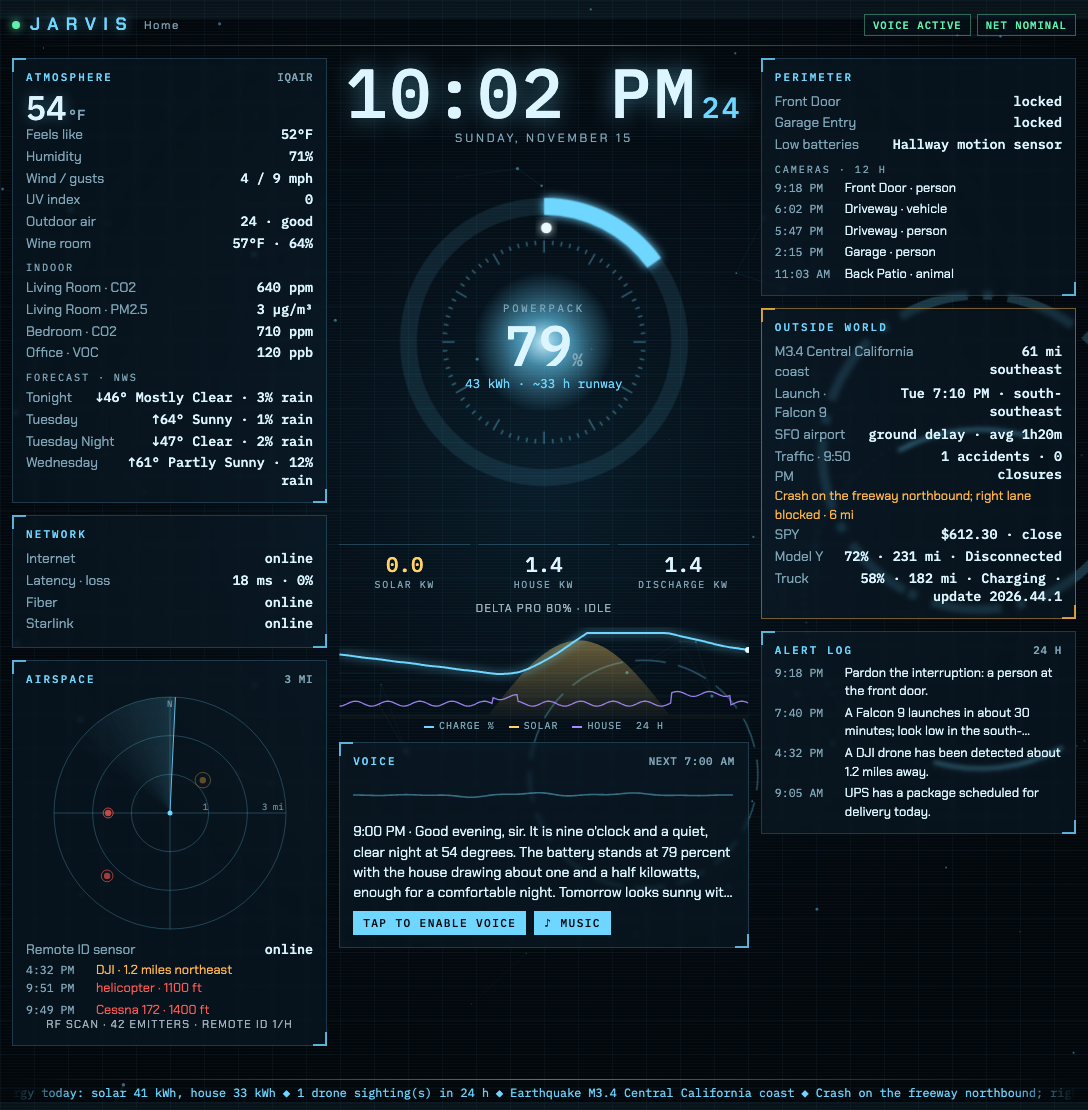
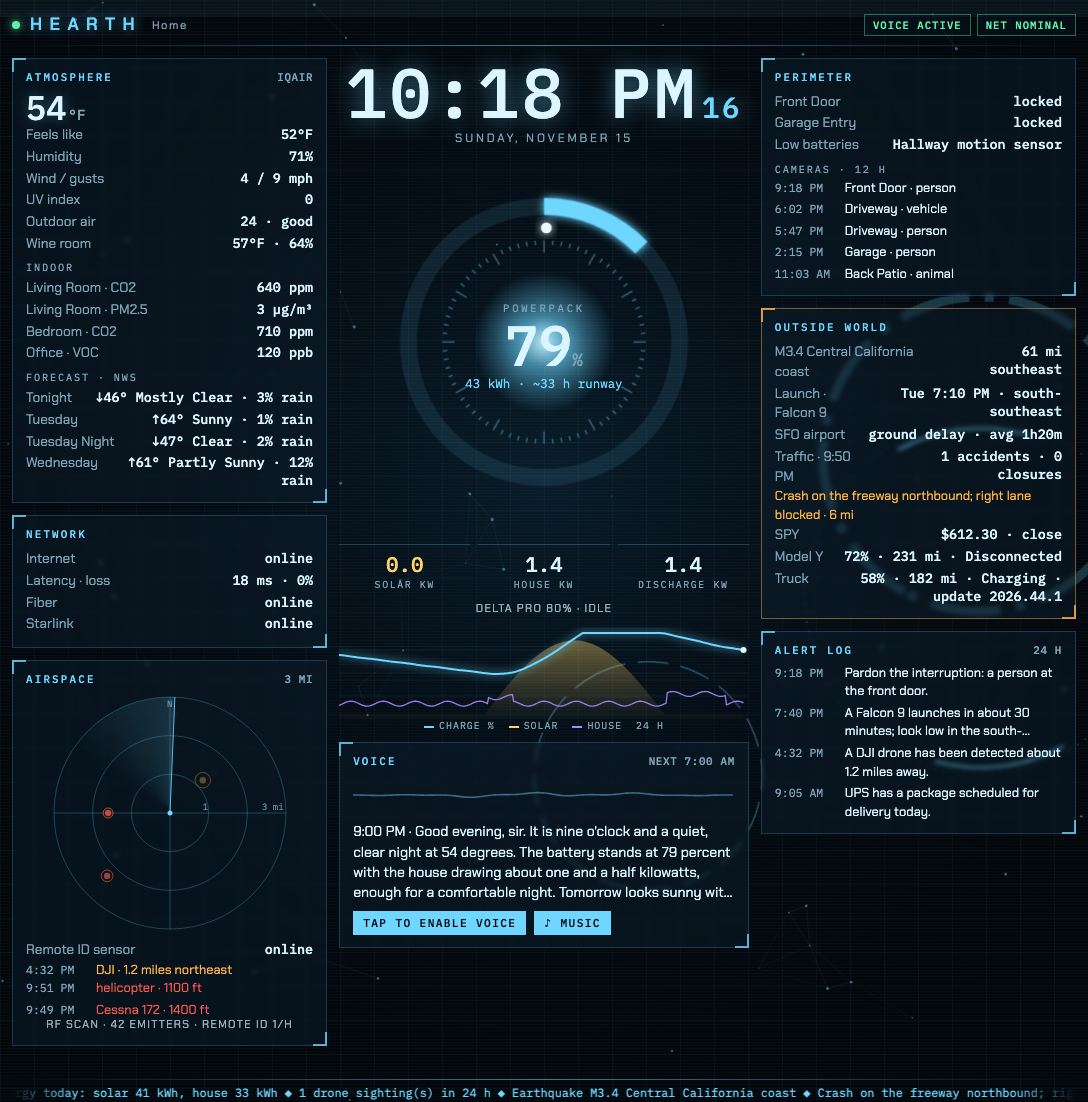
Configurable assistant name (assistant_name, default "Hearth")
assistant_name drives the spoken persona ("You are {name}, ..."), a
{assistant_name} prompt placeholder, the HUD wordmark and page title
(from the status; the page shows a neutral HEARTH until data arrives),
the HomeKit/Siri switch default, the email subject and body, the
household-journal page and the AirPlay pairing name. The public example,
README and screenshot use the neutral default; an existing config just
sets `assistant_name: Jarvis` and keeps its Siri switch names. The
project and its commands are still Jarvis at home / `jarvis`.

diff --git a/dashboard.html b/dashboard.html
@@ -1,10 +1,10 @@
 <!doctype html>
 <html lang="en"><meta charset="utf-8"><meta name="viewport" content="width=device-width,initial-scale=1">
-<title>Jarvis · Home journal</title>
+<title>__NAME__ · Home journal</title>
 <style>
 :root{color-scheme:dark;font:15px system-ui,sans-serif;background:#101817;color:#e5ede8}*{box-sizing:border-box}body{max-width:1250px;margin:auto;padding:30px}header{display:flex;justify-content:space-between;align-items:center;gap:20px;margin-bottom:32px}h1{font-family:Georgia,serif;font-size:42px;font-weight:normal;margin:0}h2{font-size:20px;font-weight:500;margin:0 0 18px}h3{font-size:16px;margin:0 0 8px}.eyebrow{font-size:11px;letter-spacing:2px;color:#a9bda9;margin-bottom:10px}p{line-height:1.6;margin:8px 0}.muted{color:#a7b8b0;font-size:13px}.grid{display:grid;grid-template-columns:1.25fr 1fr;gap:18px}.card{border:1px solid #34443d;background:#19231f;border-radius:12px;padding:24px;margin-bottom:18px}.full{grid-column:1/-1}button,select,input{font:inherit;background:#28372f;color:inherit;border:1px solid #526354;border-radius:6px;padding:8px 12px}button{cursor:pointer}button:hover{background:#3d5142}button:disabled{opacity:.5;cursor:default}.row{display:flex;align-items:center;justify-content:space-between;gap:12px;border-top:1px solid #34443d;padding:12px 0}.row:first-child{border:0}.badge{font-size:12px;white-space:nowrap;border-radius:20px;padding:4px 10px;background:#314735}.bad{background:#663c2c}.warn{background:#544b2d}.actions{display:flex;gap:8px;flex-wrap:wrap}.history{display:grid;gap:12px}.entry{border-top:1px solid #34443d;padding-top:14px}.entry p{white-space:pre-wrap}.entry details{margin:8px 0}.metric{font:32px Georgia,serif;color:#d6dcb0}#notice{min-height:22px;color:#d6dcb0}svg{width:100%;height:175px;margin-top:12px}table{border-collapse:collapse;width:100%;font-size:13px}td,th{text-align:left;padding:8px;border-bottom:1px solid #34443d}#health{max-height:370px;overflow:auto}.toolbar{display:flex;gap:12px;align-items:center;flex-wrap:wrap}input{min-width:180px;flex:1}footer{padding:16px 0;color:#a7b8b0;font-size:12px}@media(max-width:750px){body{padding:18px}.grid{display:block}header{align-items:flex-start;flex-direction:column}h1{font-size:36px}.card{padding:18px}}
 </style>
-<header><div><div class="eyebrow">JARVIS / HOUSEHOLD JOURNAL</div><h1>A clearer view of home.</h1><p class="muted" id="updated">Connecting to the local journal…</p></div><div class="actions"><span id="daemon" class="badge">Waiting</span><button id="quiet">Quiet mode</button></div></header>
+<header><div><div class="eyebrow">__NAME_UPPER__ / HOUSEHOLD JOURNAL</div><h1>A clearer view of home.</h1><p class="muted" id="updated">Connecting to the local journal…</p></div><div class="actions"><span id="daemon" class="badge">Waiting</span><button id="quiet">Quiet mode</button></div></header>
 <div id="notice" role="status" aria-live="polite"></div>
 <main class="grid">
 <section class="card"><h2>Energy outlook</h2><div id="energy"></div><div id="chart"></div></section>

diff --git a/hud/index.html b/hud/index.html
@@ -5,7 +5,7 @@
 <meta name="viewport" content="width=device-width, initial-scale=1, viewport-fit=cover">
 <meta name="robots" content="noindex, nofollow">
 <meta name="referrer" content="no-referrer">
-<title>Jarvis Display</title>
+<title>Hearth Display</title>
 <link rel="preconnect" href="https://fonts.googleapis.com">
 <link rel="preconnect" href="https://fonts.gstatic.com" crossorigin>
 <link rel="stylesheet" href="https://fonts.googleapis.com/css2?family=Chakra+Petch:wght@400;500;600&family=IBM+Plex+Mono:wght@400;500&display=swap">
@@ -184,7 +184,7 @@ footer.foot::before { content: ""; position: absolute; left: 0; right: 0; top: 0
 
 <div id="app" class="hud">
   <header class="bar">
-    <div class="brand"><span class="dot" id="dot"></span>JARVIS<small id="where"></small></div>
+    <div class="brand"><span class="dot" id="dot"></span><span class="brand-name">HEARTH</span><small id="where"></small></div>
     <div class="chips" id="chips"></div>
   </header>
 
@@ -254,7 +254,7 @@ footer.foot::before { content: ""; position: absolute; left: 0; right: 0; top: 0
 </div>
 
 <div id="gate" class="gate" hidden>
-  <div class="brand"><span class="dot"></span>JARVIS</div>
+  <div class="brand"><span class="dot"></span><span class="brand-name">HEARTH</span></div>
   <div id="gate-msg">Connecting…</div>
 </div>
 
@@ -526,7 +526,7 @@ footer.foot::before { content: ""; position: absolute; left: 0; right: 0; top: 0
   }
 
   // ---------- render ----------
-  var last = null, booted = false;
+  var last = null, booted = false, shownName = null;
   function fresh() {
     if (!last) return;
     var age = Math.round((Date.now() - new Date(last.generated).getTime()) / 60000);
@@ -546,6 +546,11 @@ footer.foot::before { content: ""; position: absolute; left: 0; right: 0; top: 0
 
     // voice
     speaking = !!v.speaking || (!player.paused && !player.ended && player.currentTime > 0);
+    if (s.assistant && s.assistant !== shownName) {            // wordmark and title follow assistant_name
+      shownName = s.assistant;
+      document.querySelectorAll(".brand-name").forEach(function (e) { e.textContent = shownName.toUpperCase(); });
+      document.title = shownName + " Display";
+    }
     musicUpdate(s.music); musicSync();
     $("v-next").textContent = speaking ? "speaking" : (v.next ? "next " + v.next.at : "");
     var lb = v.last_briefing;

diff --git a/jarvis.py b/jarvis.py
@@ -58,7 +58,7 @@ DAY_NAMES = ["mon", "tue", "wed", "thu", "fri", "sat", "sun"]
 log = logging.getLogger("jarvis")
 
 SPEECH_SYSTEM_PROMPT = """\
-You are Jarvis, the household's resident AI: a composed, impeccably polite \
+You are {assistant}, the household's resident AI: a composed, impeccably polite \
 British butler of an assistant. Your manner is calm, precise and quietly \
 confident, with a dry, understated wit used sparingly. You are never gushing, \
 never chatty, and never use exclamation marks. You may occasionally address the \
@@ -103,6 +103,9 @@ def load_config(path: Path) -> dict:
     cfg.setdefault("broadcasts", [])
     cfg.setdefault('memory', {})
     cfg.setdefault('energy_planning', {})
+    # the assistant's spoken name (persona, prompts' {assistant_name}, HUD wordmark, Siri switch default)
+    cfg['assistant_name'] = str(cfg.get('assistant_name') or 'Hearth').strip()
+    cfg['llm']['_assistant_name'] = cfg['assistant_name']
     validate_rules(cfg.get('conditions') or [])
     planning = cfg['energy_planning']
     for key, default, low, high in (('history_days', 21, 1, 90), ('min_days', 3, 1, 30),
@@ -1322,6 +1325,7 @@ def render_prompt(template: str, now: dt.datetime, cfg: dict, facts=None) -> str
         "weekday": now.strftime("%A"),
         "part_of_day": part_of_day(now),
         "location": cfg.get("location", ""),
+        "assistant_name": cfg.get("assistant_name", "Hearth"),
         "name_instruction": name_instruction(cfg),
         "flourish_instruction": flourish_instruction(cfg),
         "segment_instructions": segment_instructions(now, cfg),
@@ -1367,12 +1371,13 @@ BRIEFING_SCHEMA = {'type': 'object', 'additionalProperties': False,
 
 
 def speech_instructions(llm):
+    base = SPEECH_SYSTEM_PROMPT.replace('{assistant}', llm.get('_assistant_name') or 'Hearth')
     if llm.get('_structured'):
-        return SPEECH_SYSTEM_PROMPT + ('\nFor this request, wrap your answer in a JSON object with exactly '
+        return base + ('\nFor this request, wrap your answer in a JSON object with exactly '
                'speech (the spoken prose following all style rules above) and mentioned_fact_ids '
                '(an array of supplied fact IDs actually mentioned). The prose-only rule applies to speech, '
                'not the JSON envelope. Never put JSON, fact IDs or metadata inside speech.')
-    return SPEECH_SYSTEM_PROMPT
+    return base
 
 
 def ask_anthropic(prompt: str, llm: dict) -> str:
@@ -1775,7 +1780,8 @@ async def run_broadcast(b: dict, cfg: dict, when: dt.datetime, play_audio: bool 
         ecfg = cfg.get("email_reports") or {}
         if ecfg.get("enabled") and b["name"] in ecfg.get("broadcasts", [b["name"]]):
             try:
-                await asyncio.to_thread(email_report, ecfg, b["name"], when, text, audio, Path(tmp))
+                await asyncio.to_thread(email_report, dict(ecfg, _assistant=cfg.get("assistant_name")),
+                                        b["name"], when, text, audio, Path(tmp))
             except Exception as e:  # never let email trouble affect briefings
                 log.warning("[%s] email failed: %s", b["name"], e)
 
@@ -1799,10 +1805,12 @@ def email_report(ecfg: dict, name: str, when: dt.datetime, text: str, wav: Path,
                         "-ac", "1", str(attach)], check=True)
     stamp = when.strftime("%Y-%m-%d %H:%M")
     msg = EmailMessage()
-    msg["Subject"] = ecfg.get("subject", "Jarvis {name} briefing, {stamp}").format(name=name, stamp=stamp)
+    assistant = ecfg.get("_assistant") or "Hearth"
+    msg["Subject"] = ecfg.get("subject", "{assistant} {name} briefing, {stamp}").format(
+        name=name, stamp=stamp, assistant=assistant)
     msg["From"] = os.environ.get("SMTP_FROM") or os.environ.get("SMTP_USERNAME", "")
     msg["To"] = ", ".join(ecfg["to"])
-    msg.set_content("Jarvis %s briefing, %s\n\n%s\n" % (name, stamp, text))
+    msg.set_content("%s %s briefing, %s\n\n%s\n" % (assistant, name, stamp, text))
     subtype = "mp4" if fmt == "m4a" else "wav"
     msg.add_attachment(attach.read_bytes(), maintype="audio", subtype=subtype,
                        filename="jarvis-%s-%s.%s" % (name, when.strftime("%Y%m%d-%H%M"), attach.suffix[1:]))
@@ -2033,7 +2041,7 @@ def read_alerts(since: dt.datetime) -> List[dict]:
 
 
 class QuietMode:
-    """'Hey Siri, turn on Jarvis Quiet': skip scheduled updates and non-urgent
+    """'Hey Siri, turn on <assistant> Quiet': skip scheduled updates and non-urgent
     alerts until switched off or until the configured morning time."""
 
     def __init__(self, cfg: dict):
@@ -2609,8 +2617,8 @@ def weekly_summary(now: dt.datetime) -> str:
 
 async def start_homekit(cfg: dict) -> None:
     """Expose Jarvis to Apple Home as one accessory with several switches:
-    momentary briefing switches ("Hey Siri, turn on Jarvis Update") that run a
-    briefing immediately and switch themselves off, and a "Jarvis Quiet"
+    momentary briefing switches ("Hey Siri, turn on <assistant> Update") that run a
+    briefing immediately and switch themselves off, and a "<assistant> Quiet"
     switch that holds quiet mode."""
     from pyhap.accessory import Accessory
     from pyhap.accessory_driver import AccessoryDriver
@@ -2618,7 +2626,7 @@ async def start_homekit(cfg: dict) -> None:
 
     hcfg = cfg.get("homekit") or {}
     loop = asyncio.get_running_loop()
-    switches = hcfg.get("switches") or [{"name": hcfg.get("name", "Jarvis Update"),
+    switches = hcfg.get("switches") or [{"name": hcfg.get("name", cfg.get("assistant_name", "Hearth") + " Update"),
                                          "broadcast": hcfg.get("broadcast") or cfg["broadcasts"][0]["name"]}]
     state_dir = Path(os.path.expanduser("~/Library/Application Support/jarvis"))
     state_dir.mkdir(parents=True, exist_ok=True)
@@ -3026,7 +3034,7 @@ def main() -> int:
     elif args.cmd == "cameras":
         return cameras_cmd(cfg, args.watch)
     elif args.cmd == "pair":
-        return asyncio.run(pair_device(args.device, args.pin_file))
+        return asyncio.run(pair_device(args.device, args.pin_file, cfg.get("assistant_name", "Hearth")))
     elif args.cmd == "say":
         homepods = args.homepod or cfg.get("homepods") or []
         with tempfile.TemporaryDirectory(prefix="jarvis-") as tmp:
@@ -3038,7 +3046,7 @@ def main() -> int:
 
 def operations_cmd(args, cfg):
     if args.cmd == 'dashboard':
-        server = operations.dashboard_server(JOURNAL, args.port)
+        server = operations.dashboard_server(JOURNAL, args.port, cfg.get("assistant_name", "Hearth"))
         print('Jarvis dashboard: http://127.0.0.1:%d' % server.server_port, flush=True)
         try:
             server.serve_forever()
@@ -3132,7 +3140,7 @@ def cameras_cmd(cfg: dict, watch: bool) -> int:
         return 0
 
 
-async def pair_device(name: str, pin_file: Optional[str]) -> int:
+async def pair_device(name: str, pin_file: Optional[str], client_name: str = "Hearth") -> int:
     """AirPlay pairing: the device shows a 4-digit PIN; enter it (or write it to
     --pin-file). Credentials are saved for playback; pairing is needed once."""
     import pyatv
@@ -3151,8 +3159,8 @@ async def pair_device(name: str, pin_file: Optional[str]) -> int:
     from pyatv.protocols.airplay.auth import hap as airplay_hap
 
     saved_headers = dict(airplay_hap._AIRPLAY_HEADERS)
-    airplay_hap._AIRPLAY_HEADERS["X-Apple-Client-Name"] = "Jarvis"
-    pairing = await pyatv.pair(conf, Protocol.AirPlay, loop, name="Jarvis")
+    airplay_hap._AIRPLAY_HEADERS["X-Apple-Client-Name"] = client_name
+    pairing = await pyatv.pair(conf, Protocol.AirPlay, loop, name=client_name)
     try:
         await pairing.begin()
         print("A PIN is now shown on %s." % name, flush=True)

diff --git a/tests/test_assistant_name.py b/tests/test_assistant_name.py
@@ -1,0 +1,59 @@
+import datetime as dt
+import tempfile
+import threading
+import unittest
+from pathlib import Path
+from urllib.request import urlopen
+
+import hud
+import jarvis
+import operations
+from journal import Journal
+
+ROOT = Path(__file__).resolve().parent.parent
+
+
+class AssistantName(unittest.TestCase):
+    def cfg(self, name=None):
+        with tempfile.NamedTemporaryFile("w", suffix=".yaml", delete=False) as f:
+            text = (ROOT / "config.example.yaml").read_text()
+            if name:
+                text = text.replace("assistant_name: Hearth", "assistant_name: %s" % name, 1)
+            f.write(text)
+        return jarvis.load_config(Path(f.name))
+
+    def test_neutral_default_and_override_reach_persona_and_prompts(self):
+        c = self.cfg()
+        self.assertEqual(c["assistant_name"], "Hearth")
+        self.assertIn("You are Hearth,", jarvis.speech_instructions(c["llm"]))
+        self.assertNotIn("Jarvis", jarvis.speech_instructions(c["llm"]))
+        mine = self.cfg("Jarvis")
+        self.assertIn("You are Jarvis,", jarvis.speech_instructions(dict(mine["llm"], _structured=True)))
+        prompt = jarvis.render_prompt("Speak as {assistant_name}.", dt.datetime(2026, 11, 16, 9), mine)
+        self.assertIn("Speak as Jarvis.", prompt)
+
+    def test_example_config_is_neutral(self):
+        c = self.cfg()
+        self.assertTrue(all(s["name"].startswith("Hearth ") for s in c["homekit"]["switches"]))
+        for b in c["broadcasts"]:
+            self.assertNotIn("Jarvis", b.get("prompt", ""))
+
+    def test_hud_status_and_dashboard_carry_the_name(self):
+        c = self.cfg("Jarvis")
+        self.assertEqual(hud.build_status(jarvis, c)["assistant"], "Jarvis")
+        self.assertIn("HEARTH", (ROOT / "hud" / "index.html").read_text())     # neutral default before data
+        with tempfile.TemporaryDirectory() as tmp:
+            store = Journal(Path(tmp) / "journal.db")
+            server = operations.dashboard_server(store, 0, "Jarvis")
+            thread = threading.Thread(target=server.serve_forever, daemon=True)
+            thread.start()
+            try:
+                page = urlopen("http://127.0.0.1:%d/" % server.server_port).read().decode()
+                self.assertIn("<title>Jarvis · Home journal</title>", page)
+                self.assertIn("JARVIS / HOUSEHOLD JOURNAL", page)
+            finally:
+                server.shutdown(); server.server_close(); thread.join()
+
+
+if __name__ == "__main__":
+    unittest.main()

diff --git a/operations.py b/operations.py
@@ -72,9 +72,10 @@ def doctor(cfg, store):
     return checks
 
 
-def dashboard_server(store, port=8765):
+def dashboard_server(store, port=8765, name='Hearth'):
     token = secrets.token_urlsafe(32)
-    html = Path(__file__).with_name('dashboard.html').read_text().replace('__TOKEN__', token)
+    html = (Path(__file__).with_name('dashboard.html').read_text().replace('__TOKEN__', token)
+            .replace('__NAME_UPPER__', name.upper()).replace('__NAME__', name))
 
     class Handler(BaseHTTPRequestHandler):
         def log_message(self, *args):

diff --git a/hud.py b/hud.py
@@ -96,7 +96,7 @@ def first(r: Dict[str, list], label: str):
 def build_status(j, cfg: dict, now: Optional[dt.datetime] = None) -> dict:
     now = now or dt.datetime.now()
     r = _safe(lambda: readings(j, now), {})
-    s: dict = {"v": 1, "generated": now.isoformat(timespec="seconds"),
+    s: dict = {"v": 1, "assistant": cfg.get("assistant_name", "Hearth"), "generated": now.isoformat(timespec="seconds"),
                "location": cfg.get("location", "")}
 
     # --- voice -------------------------------------------------------------

diff --git a/README.md b/README.md
@@ -6,7 +6,8 @@ butler.
 > Not affiliated with, endorsed by or sponsored by Marvel or Disney. Any similarity to
 > fictional characters is incidental; all trademarks belong to their owners.
 
-It runs on a Mac as a background service and:
+The assistant's name is configurable (`assistant_name`, default **Hearth**); this project and
+its commands are called Jarvis at home / `jarvis`. It runs on a Mac as a background service and:
 
 - **Scheduled briefings.** On a schedule (e.g. hourly 07:00–21:00), it writes a short update
   with an LLM (with web search), converts it to speech and streams it to chosen HomePods:
@@ -16,7 +17,7 @@ It runs on a Mac as a background service and:
   internet down, a smoke, CO or leak alarm, the home battery crossing 50% or 30%, a drone near
   the house, an accident or road closure, a weather warning, an earthquake, a wildfire, poor
   outdoor air, a new flight restriction, a low or circling helicopter.
-- **Siri.** "Hey Siri, turn on Jarvis Update" runs a briefing on demand. Other switches
+- **Siri.** "Hey Siri, turn on Hearth Update" runs a briefing on demand. Other switches
   run a security sweep, an energy report or quiet mode.
 - **Special briefings.** There's a 7:00 overnight security recap, a 21:00 energy summary,
   a 22:00 security sweep and a Sunday weekly recap.
@@ -108,6 +109,7 @@ Start from `config.example.yaml`. It's annotated throughout; the main sections a
 
 | Section | What it controls |
 |---|---|
+| `assistant_name` | what the assistant is called (default **Hearth**): its spoken persona, `{assistant_name}` in prompts, the HUD wordmark, the Siri switch default, the email subject |
 | `homepods`, `location`, `listener_name`, `name_probability` | where it plays, where you are, how often it uses your name |
 | `llm`, `tts`, `playback` | model, effort, web search; voice (`echo`, British butler instructions, speed 1.1); volume and prep time |
 | `prompt`, `segments`, `default_segment` | the briefing prompt and time-of-day extras (07:00 day ahead and overnight recap, midday markets, late-afternoon traffic, 21:00 energy and wind-down) |
@@ -127,7 +129,7 @@ Start from `config.example.yaml`. It's annotated throughout; the main sections a
 | other | `log_file`, `archive_dir` (briefing scripts), `context_file`, `memory_count`, `flourish_probability`, `failure_message` |
 | `alerts`, `alert_homepods` | real-time alert rules (section 6) |
 
-Prompt placeholders: `{date} {time} {weekday} {part_of_day} {location} {name_instruction}
+Prompt placeholders: `{assistant_name} {date} {time} {weekday} {part_of_day} {location} {name_instruction}
 {flourish_instruction} {segment_instructions} {recent_briefings} {personal_context}
 {home_status} {overnight_security} {energy_today} {traffic} {drones} {hazards}
 {airspace_notices} {weekly_summary}`.
@@ -259,18 +261,18 @@ an NVR) send only motion; list them in `motion_cameras` and use a `types: [motio
 
 ## 7. Siri and Apple Home
 
-### "Hey Siri, turn on Jarvis …" (the HomeKit accessory)
+### "Hey Siri, turn on Hearth …" (the HomeKit accessory)
 
 The daemon advertises a HomeKit accessory (HAP-python). Add it once: Home app → Add Accessory
-→ More options → **Jarvis Update** → enter `homekit.pincode`. Its switches each have their
+→ More options → **Hearth Update** → enter `homekit.pincode`. Its switches each have their
 own Siri name:
 
 | Say "Hey Siri, turn on…" | Does |
 |---|---|
-| Jarvis Update | the regular briefing, right now |
-| Jarvis Security | the security sweep: unlocked locks, open doors and gates, internet, cameras |
-| Jarvis Energy | Powerpack, solar, house load, battery runway, tomorrow's solar outlook |
-| Jarvis Quiet | no scheduled updates or non-urgent alerts until switched off or `quiet_until` |
+| Hearth Update | the regular briefing, right now |
+| Hearth Security | the security sweep: unlocked locks, open doors and gates, internet, cameras |
+| Hearth Energy | Powerpack, solar, house load, battery runway, tomorrow's solar outlook |
+| Hearth Quiet | no scheduled updates or non-urgent alerts until switched off or `quiet_until` |
 
 A briefing switch plays a short acknowledgement, runs its broadcast and turns itself off.
 Pairing state is kept in `~/Library/Application Support/jarvis/homekit.state`; deleting it
